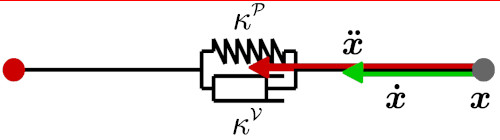
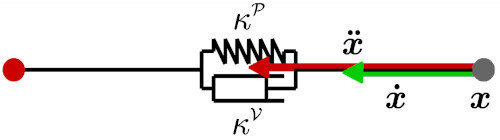
spring image added

Changed region(s): [[0.0, 0.0, 1.0, 0.0286]]

diff --git a/humanoid-forum-2026/impedance2d_task.html b/humanoid-forum-2026/impedance2d_task.html
@@ -5,6 +5,11 @@
 
     <pre id="impedance2d_task_errors" class="py-error"></pre>
     <pre id="impedance2d_task_output" class="py-output"></pre>
+    
+    <br>
+    <div>
+		<img src="images/spring-damper01.jpg" width="70%">
+	</div>
 </div>
 
 <div style="display: inline-block; width: 49%; height: 90%; vertical-align: top;">

diff --git a/humanoid-forum-2026/impedance2d_sdf.html b/humanoid-forum-2026/impedance2d_sdf.html
@@ -5,6 +5,11 @@
 
     <pre id="impedance2d_sdf_errors" class="py-error"></pre>
     <pre id="impedance2d_sdf_output" class="py-output"></pre>
+    
+    <br>
+    <div>
+		<img src="images/spring-damper01.jpg" width="70%">
+	</div>
 </div>
 
 <div style="display: inline-block; width: 49%; height: 90%; vertical-align: top;">
